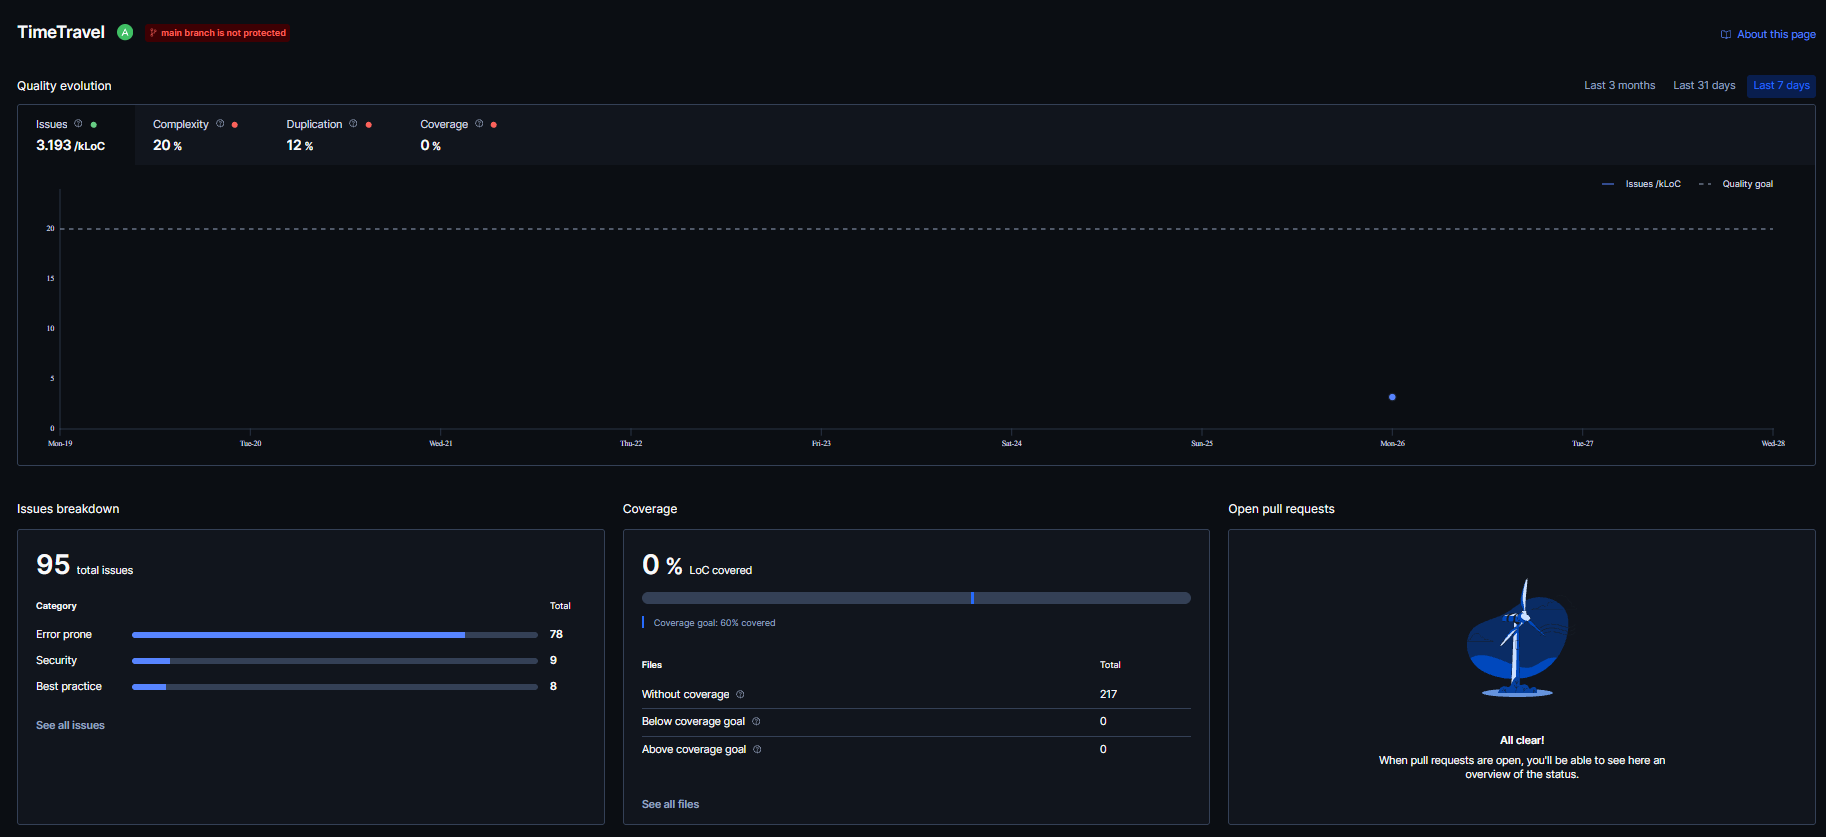
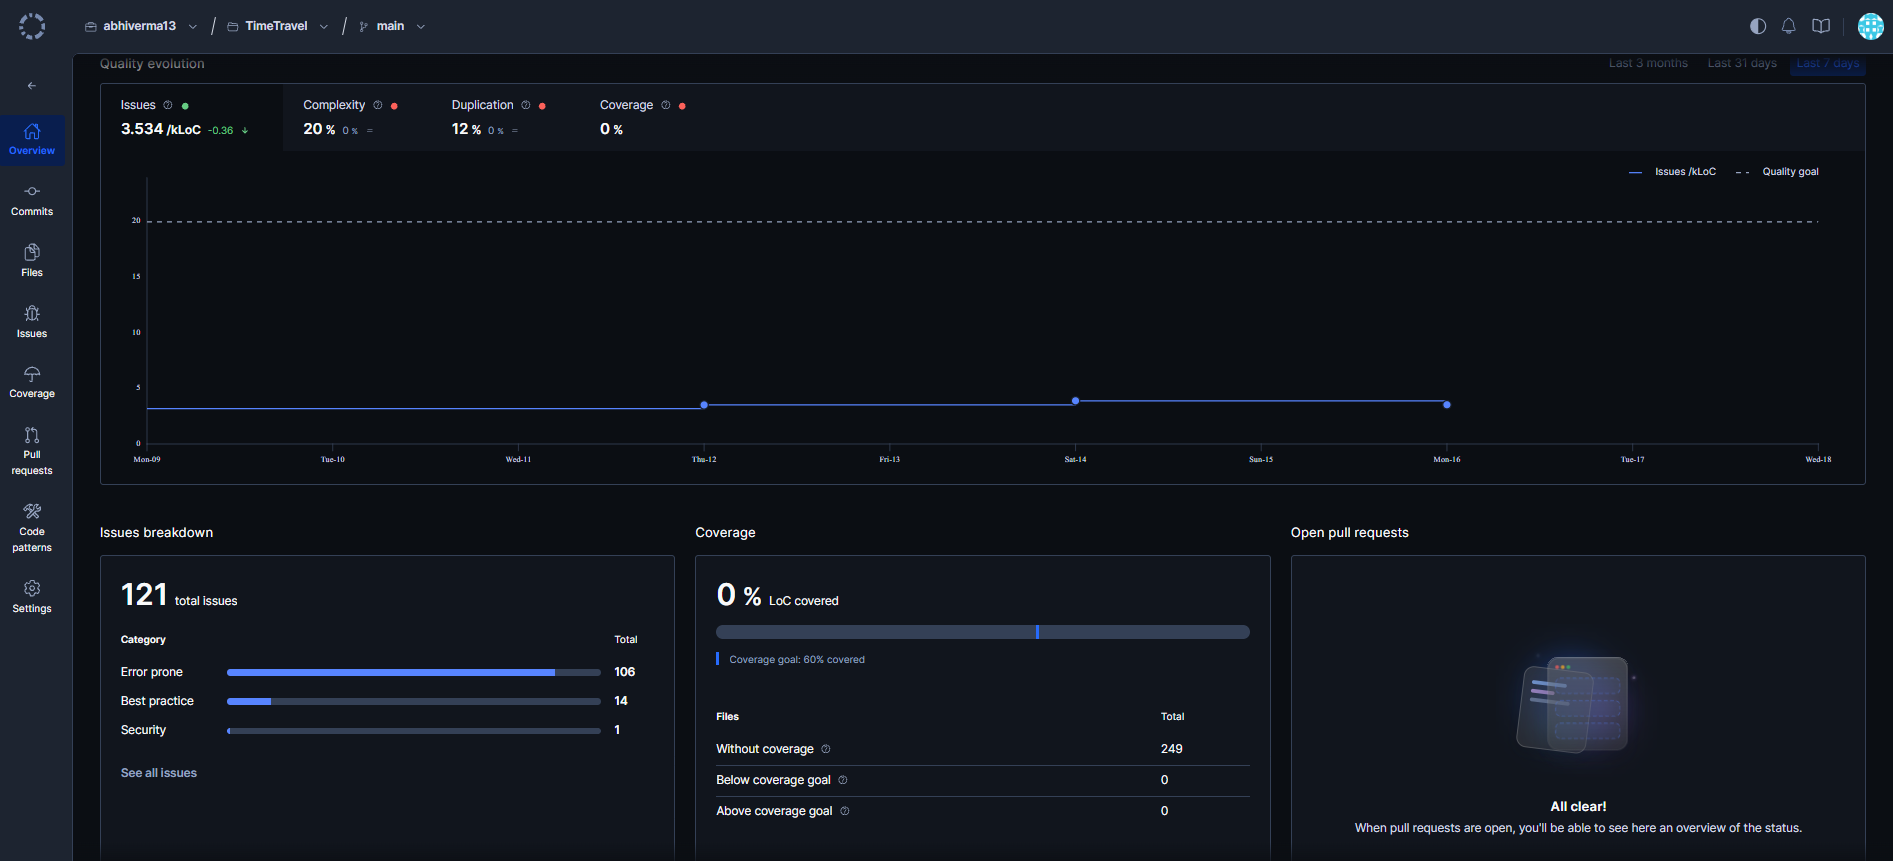
docs: record Codacy's CP3 run and shorten the justifications
Codacy ran on 0cd318e with only detekt, ESLint and Trivy and the
repository's configuration files: 121 issues. 120 come from ESLint rules
that need the installed packages' types, which Codacy does not install;
npm run lint:types runs the same rules with them and finds none. The other
is the start-up readFileSync of the TLS files.

diff --git a/documentation/Code_Review.md b/documentation/Code_Review.md
@@ -10,7 +10,7 @@
 | 2026-11-02 | All | Shortened the wording after CP1 feedback. |
 | 2026-11-12 | 2 | CP3: Codacy is to run with only detekt, ESLint and Trivy and the repository's configuration files, as the peer review pointed out; the Dockerfile finding is fixed rather than justified, and every justification cites its sources. |
 | 2026-11-12 | 3 | CP3: recorded our review of Fabricate, Donut's review of TimeTravel, and what we changed in response. |
-| 2026-11-17 | 2.4 | CP3: fixed Trivy's dependency findings and excluded Jest's configuration file, which ESLint cannot parse. |
+| 2026-11-17 | 2 | CP3: recorded Codacy's run on `0cd318e` (121 issues), after fixing Trivy's findings and excluding Jest's configuration file. Shortened the justifications after CP2 feedback, and added `npm run lint:types` to check the type-aware rules locally. |
 | 2026-11-17 | 3.3 | Plan Trip now has five end-to-end tests: the unknown-lodging test was removed (Testing.md 4.2 explains why). |
 
 ---
@@ -23,29 +23,27 @@ Locally, ESLint with the course's [`.eslintrc.json`](../.eslintrc.json) over `ba
 
 ### 2.1. Commit Hash Where Codacy Ran
 
-_The commit Codacy analyses for CP3, recorded by the repository owner after the run._
+`0cd318e1c21d6f8725b8ff3b56c31a4a68ee27d7`
 
 ### 2.2. Unfixed Issues per Codacy Category
 
-_A screenshot of the CP3 run's issues by category (`images/codacy_category_breakdown.png`), added after the run._
+![Codacy issues by category](images/codacy_category_breakdown.png)
 
 ### 2.3. Unfixed Issues per Codacy Code Pattern
 
-_A screenshot of the CP3 run's issues by code pattern (`images/codacy_issues_by_pattern.png`), added after the run._
+![Codacy issues by code pattern](images/codacy_issues_by_pattern.png)
 
 ### 2.4. Justifications for Unfixed Issues
 
-- **Fixed since CP2:** the container now runs as the unprivileged `node` user ([`backend/Dockerfile`](../backend/Dockerfile)), so Codacy's non-root `USER` finding no longer applies; the deployment makes the TLS key readable by that user ([README](../README.md), deployment step 3). The other Opengrep findings (NoSQL injection, SSRF) came from a tool the course's setup does not use.
+The 121 open issues have two causes.
 
-- **ESLint: TypeScript rules that need type information** (`@typescript-eslint/no-misused-promises`, `no-unsafe-return`, `require-await`, `no-unsafe-argument`, `no-redundant-type-constituents`), if Codacy reports them:
-    - **Justification:** these rules "utilize TypeScript's type checking APIs", which "requires TypeScript to analyze your entire project instead of just the file being linted" ([typescript-eslint, Linting with Type Information](https://typescript-eslint.io/getting-started/typed-linting)). The types of `express`, `supertest`, `socket.io` and `mongodb-memory-server` come from the installed packages, so a run without them sees those values as `any`; at CP2 Codacy's own messages showed this ("Unsafe return of an error typed value", and "'any' overrides all other types in this union type" for `MongoMemoryServer | undefined`). With the dependencies installed (`npm ci`), the course's [`.eslintrc.json`](../.eslintrc.json), which enables these rules as errors, reports none of them over `backend/src` and `backend/tests`.
+- **120 issues from ESLint rules that need type information** (`no-unsafe-return` 50, `no-misused-promises` 46, `require-await` 13, `no-unsafe-argument` 10, `no-redundant-type-constituents` 1)
+    - **Justification:** these are false positives. The rules read the types of our installed packages ([typescript-eslint, Linting with Type Information](https://typescript-eslint.io/getting-started/typed-linting)), and Codacy does not install them, so it treats values from `express`, `supertest` and `mongodb-memory-server` as `any`. Its own messages show this: "Unsafe return of an *error typed* value". With the packages installed, the same five rules find nothing: run `npm ci` and then `npm run lint:types` in `backend/`. We checked that this command does report these rules on code that breaks them.
 
-- **ESLint: `security/detect-non-literal-fs-filename`**, at [`backend/src/index.ts`](../backend/src/index.ts) (its two `readFileSync` calls)
-    - **Justification:** the rule "Detects variable in filename argument of `fs` calls, which might allow an attacker to access anything on your system" ([eslint-plugin-security rule documentation](https://github.com/eslint-community/eslint-plugin-security/blob/main/docs/rules/detect-non-literal-fs-filename.md)), that is, path traversal, where a request's input reaches a file path ([OWASP, Path Traversal](https://owasp.org/www-community/attacks/Path_Traversal)). Here no request input can reach the path: the server reads its TLS certificate and key once at start-up from `TLS_CERT_PATH` and `TLS_KEY_PATH` in its own `.env`, set by whoever deploys it. A literal path would tie the code to one server's layout (the deployment mounts the certificates at `/certs/...`).
+- **1 issue from `security/detect-non-literal-fs-filename`** at [`backend/src/index.ts`](../backend/src/index.ts) line 64
+    - **Justification:** the rule guards against path traversal, where a request's input ends up in a file path ([OWASP, Path Traversal](https://owasp.org/www-community/attacks/Path_Traversal)). Here, `readFileSync` reads the TLS certificate and key once at start-up, from paths in the server's own `.env`. No request input can reach them.
 
-- **Trivy:** any finding on a dependency is fixed by updating it (`npm audit fix`, or a newer version in `frontend/gradle/libs.versions.toml`) before the final run; one that cannot be updated is justified here with the advisory's own assessment. **Fixed for CP3:** Trivy's four findings (`mongoose` 8.24.5 and `follow-redirects`) were fixed by `npm audit fix`, which updated them to 8.24.10 and 1.16.3.
-
-- **ESLint could not parse `backend/jest.config.js`:** the course's [`.eslintrc.json`](../.eslintrc.json) reads type information through `backend/tsconfig.json`, which holds only the TypeScript sources and tests. That file is Jest's own configuration, with no application code, so [`.codacy.yml`](../.codacy.yml) excludes it from analysis.
+Fixed for this run: Trivy's four dependency findings (`mongoose` updated to 8.24.10 and `follow-redirects` to 1.16.3 with `npm audit fix`), the Dockerfile's root user (the container now runs as `node`), and an ESLint parse error on Jest's configuration file, which has no application code and is excluded in [`.codacy.yml`](../.codacy.yml).
 
 ---
 
